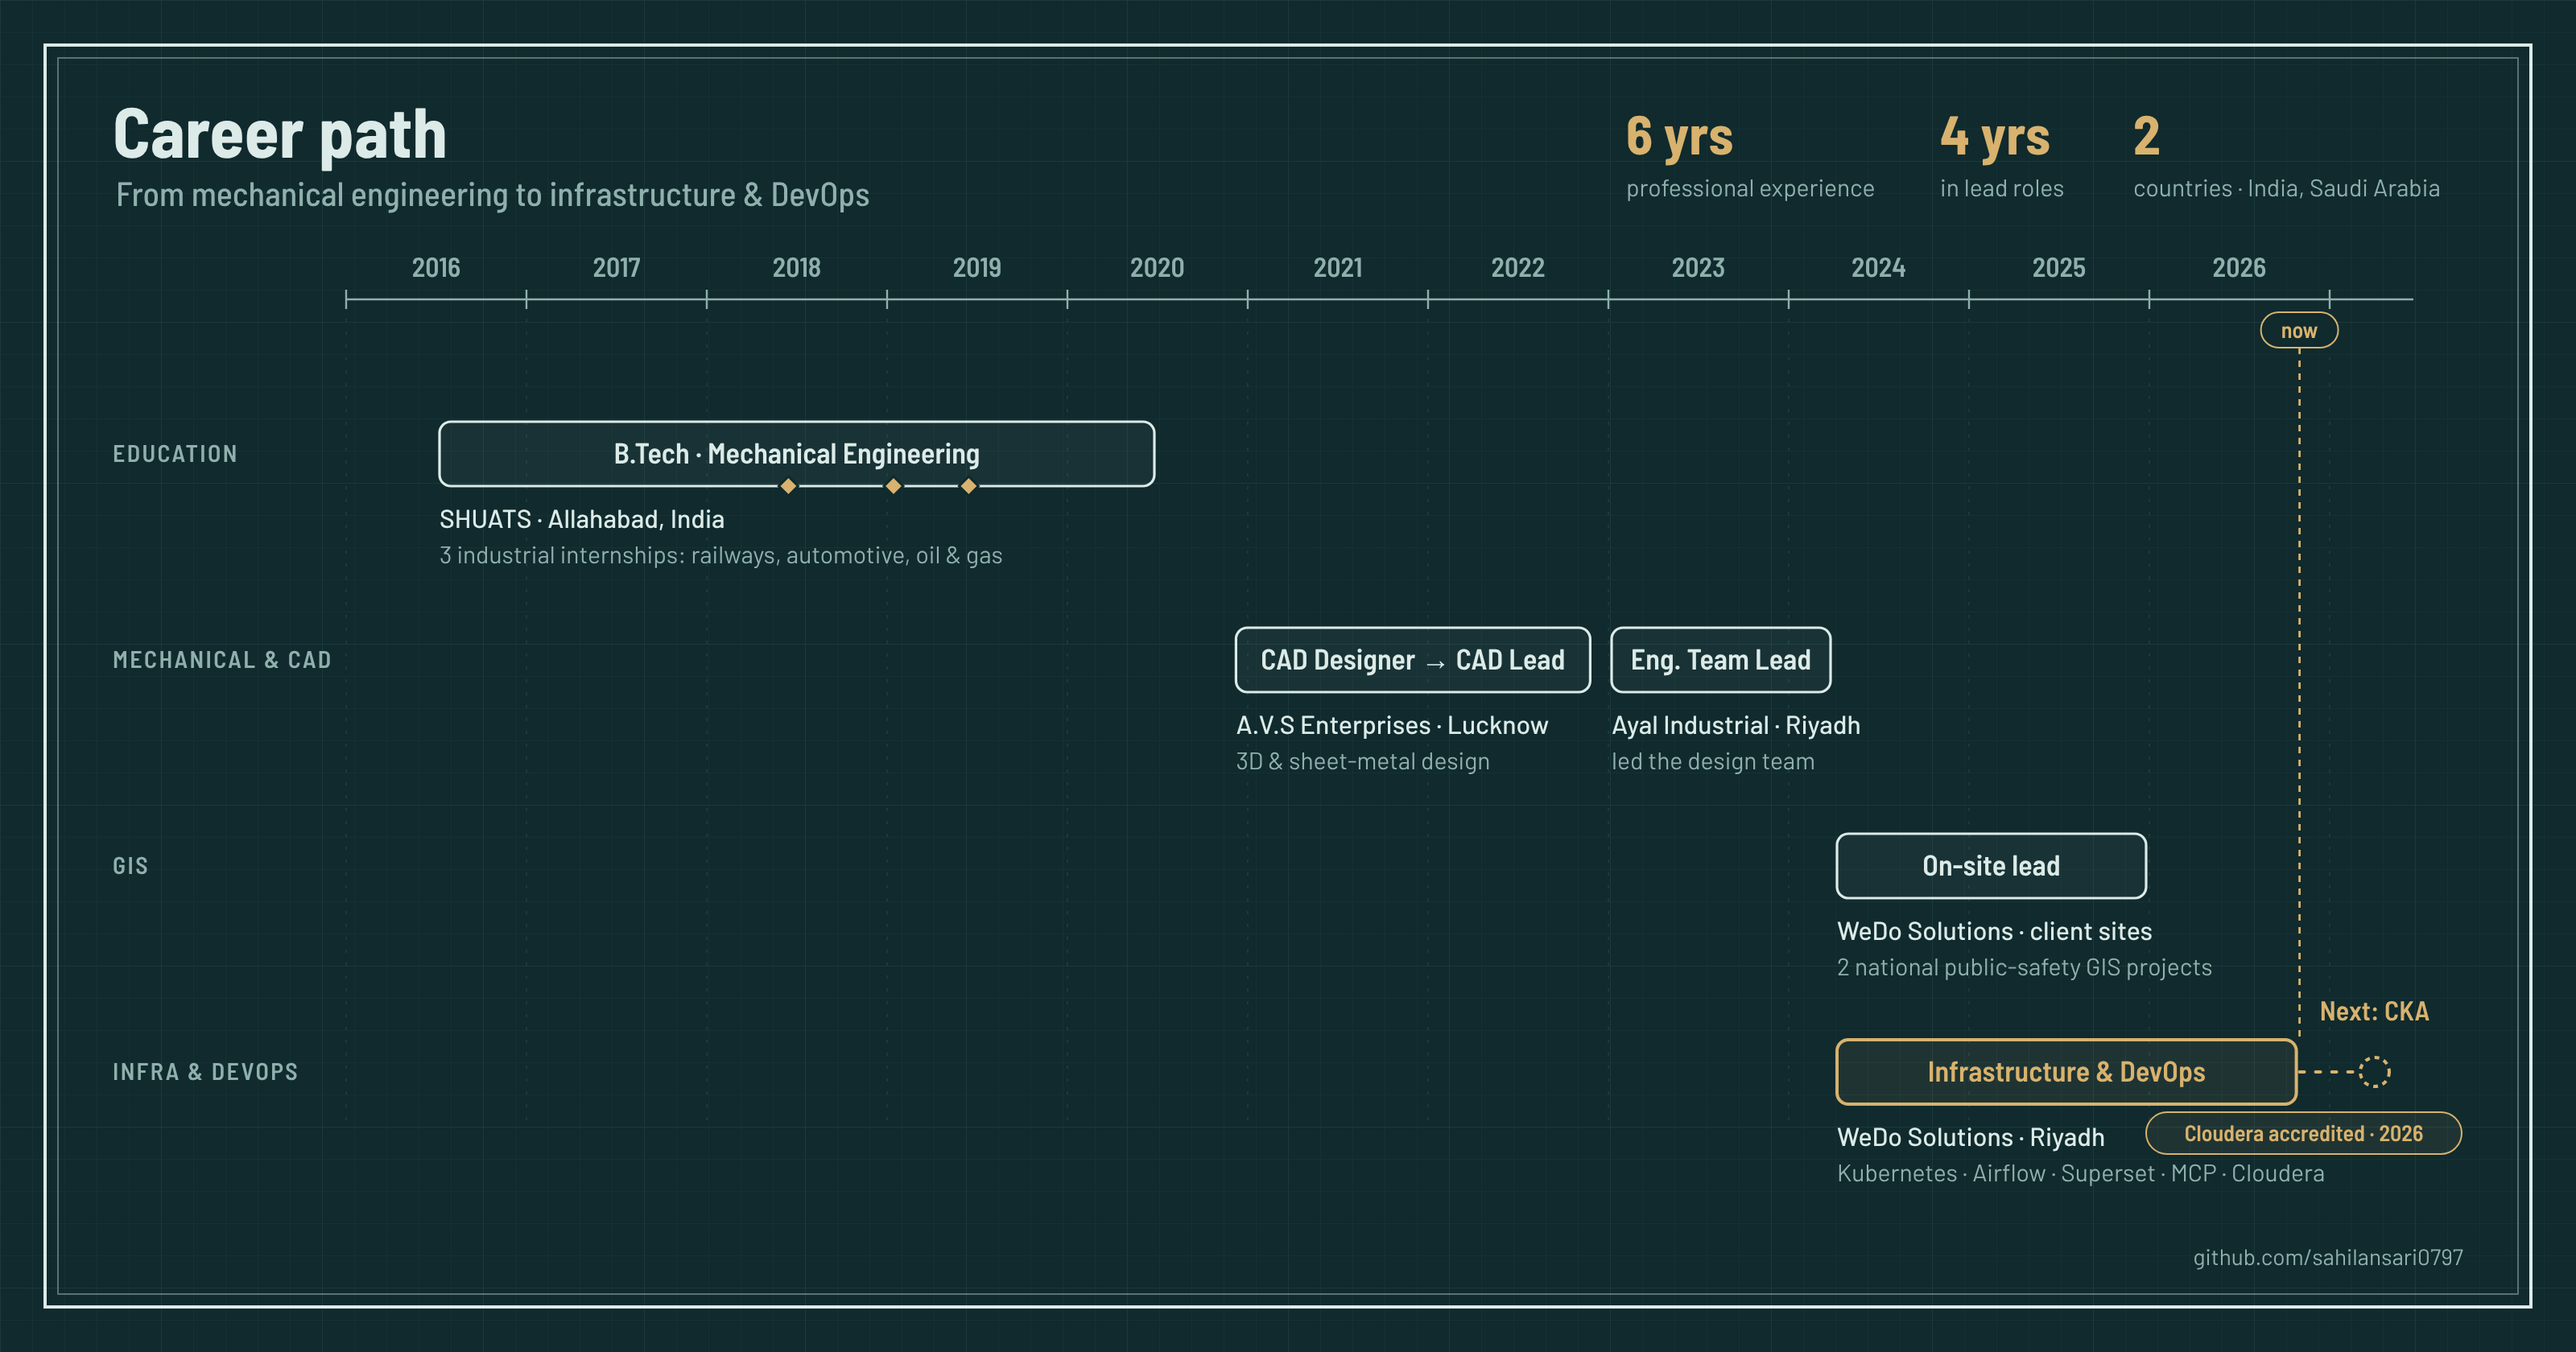
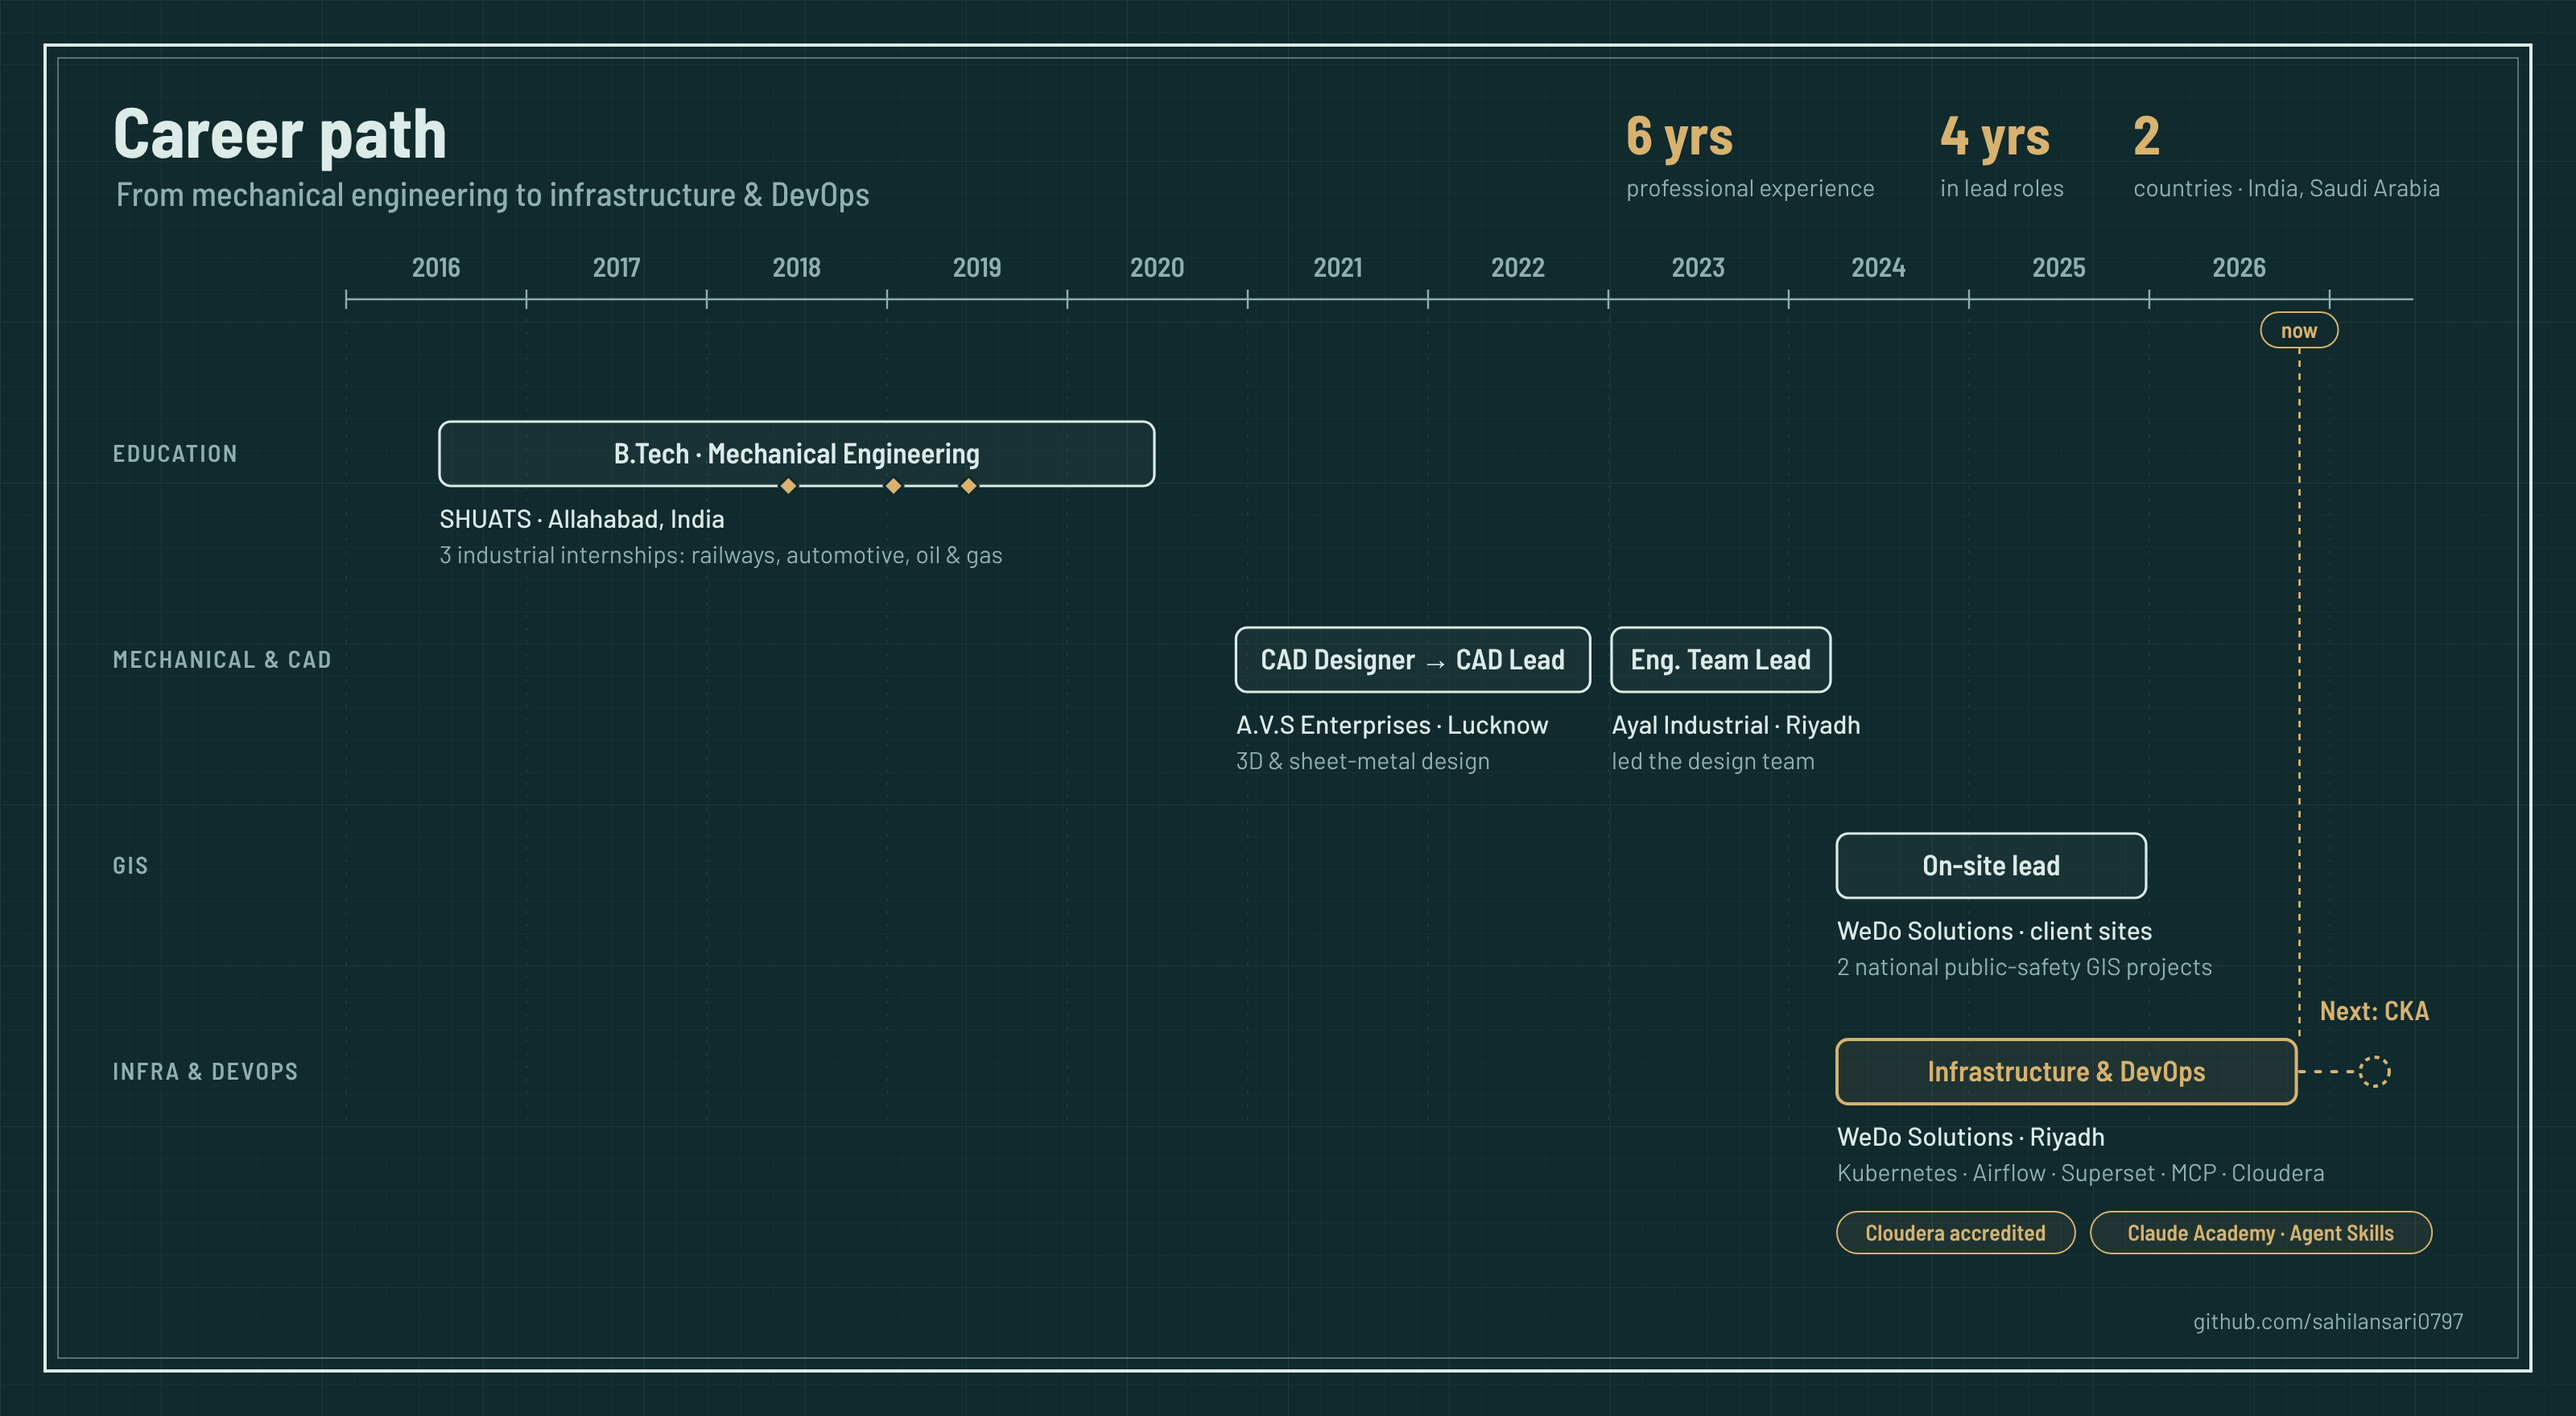
Add Claude Academy Agent Skills credential

diff --git a/README.md b/README.md
@@ -133,9 +133,15 @@ At **WeDo Solutions**, I'm part of the team behind the infrastructure for large 
 
 ---
 
+## 🎓 Credentials
+
+- **Cloudera Technical Professional Accreditation**, Cloudera (Aug 2026)
+- **Introduction to Agent Skills**, Claude Academy by Anthropic (Sep 2026) · [verify](https://academy.claude.com/verify/7b86ad5b1fbae6b828eb202942753fb5)
+
+---
+
 ## 🌱 Currently
 
-- **Cloudera Technical Professional Accreditation** (earned Aug 2026)
 - Going deeper on **Kubernetes internals** and **platform engineering**
 - Preparing for the **Certified Kubernetes Administrator (CKA)**
 - Sharpening my **backend development** skills
